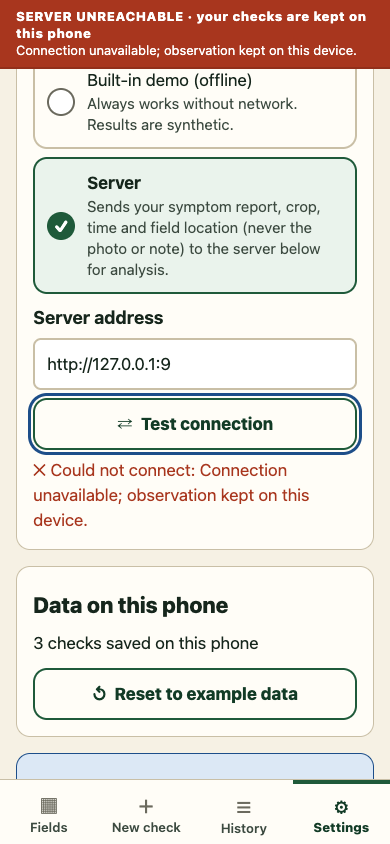
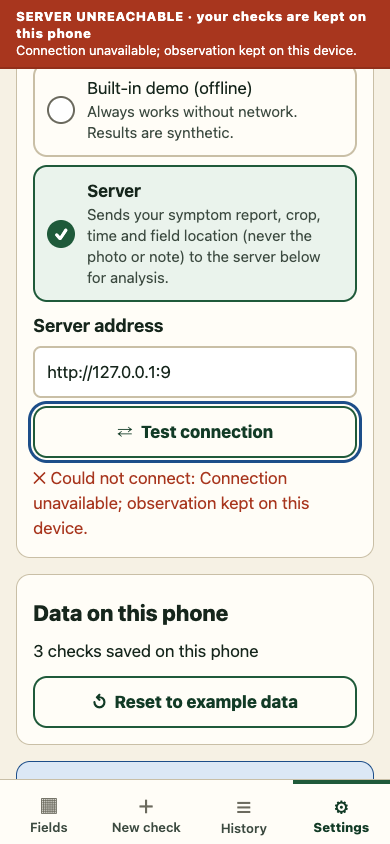
No automatic probe on server/address change; strict connected smoke
Connected journey evidence showed exactly one unintended request:
GET http://localhost:8000/v1/health (fetch, ERR_CONNECTION_REFUSED),
the auto-probe of the default address when Server was selected. Probe
only once at launch; address changes show 'Not checked yet' until Test.
Adapters are cached per address so the Test check verifies the instance
the store adopts. http-smoke fails on any failed request/HTTP>=400/
console error. 15 domain checks.

Changed region(s): [[0.0615, 0.0616, 0.9538, 0.6777], [0.0308, 0.7085, 0.9538, 0.9242], [0.0308, 0.6777, 0.0615, 0.7085]]

diff --git a/frontend/src/state/store.tsx b/frontend/src/state/store.tsx
@@ -27,6 +27,13 @@ interface Store {
 }
 
 const Ctx = createContext<Store | null>(null);
+// One adapter instance per address, so a Test-button check verifies the same instance the store uses.
+const httpApis = new Map<string, Api>();
+export function apiForUrl(url: string): Api {
+  let a = httpApis.get(url);
+  if (!a) { a = httpApi(url); httpApis.set(url, a); }
+  return a;
+}
 const EMPTY: PersistedState = { version: 1, fields: [], records: [], settings: { locale: 'en', source: 'mock', baseUrl: 'http://localhost:8000' } };
 
 export function StoreProvider({ children, storage = deviceStore }: { children: React.ReactNode; storage?: KeyValueStore }) {
@@ -41,7 +48,7 @@ export function StoreProvider({ children, storage = deviceStore }: { children: R
   const activeApi = useRef<Api>(mockApi);
   const writes = useRef(Promise.resolve());
 
-  const api = useMemo<Api>(() => state.settings.source === 'http' ? httpApi(state.settings.baseUrl) : mockApi, [state.settings.source, state.settings.baseUrl]);
+  const api = useMemo<Api>(() => state.settings.source === 'http' ? apiForUrl(state.settings.baseUrl) : mockApi, [state.settings.source, state.settings.baseUrl]);
   const t = useMemo(() => translator(state.settings.locale), [state.settings.locale]);
   activeApi.current = api;
 
@@ -81,13 +88,12 @@ export function StoreProvider({ children, storage = deviceStore }: { children: R
   }, [patchRecord]);
 
   /** Checks the active adapter (or an explicit address, for display only — never verified for retries). */
+  /** Probes the active adapter, or the adapter for an explicit address (the one the store will adopt). */
   const testConnection = useCallback(async (baseUrl?: string): Promise<Connection> => {
-    if (baseUrl && baseUrl !== api.baseUrl) {
-      try { const health = await httpApi(baseUrl).health(); return { kind: 'ok', health }; }
-      catch (e) { return { kind: 'unreachable', message: String((e as Error)?.message ?? e) }; }
-    }
-    if (api.kind === 'http') setConnection({ kind: 'checking' });
-    const result = await gate.current.check(api);
+    const target = baseUrl ? apiForUrl(baseUrl) : api;
+    if (target.kind === 'mock') { const c: Connection = { kind: 'local' }; setConnection(c); return c; }
+    setConnection({ kind: 'checking' });
+    const result = await gate.current.check(target);
     if (result) setConnection(result);
     return result ?? { kind: 'checking' };
   }, [api]);
@@ -98,7 +104,14 @@ export function StoreProvider({ children, storage = deviceStore }: { children: R
     for (const r of current.current.records) if (retryable(r) && !busy[r.id]) analyse(r, api);
   }, [analyse, api, busy]);
 
-  useEffect(() => { gate.current.invalidate(); if (ready) testConnection(); }, [ready, testConnection]);
+  // Probe the saved server once at launch. Later source/address changes are NOT probed
+  // automatically (no request to a half-typed or default address); the user taps Test.
+  const probedAtLaunch = useRef(false);
+  useEffect(() => {
+    if (!ready) return;
+    if (!probedAtLaunch.current) { probedAtLaunch.current = true; testConnection(); return; }
+    if (!gate.current.adopt(api)) setConnection(api.kind === 'mock' ? { kind: 'local' } : { kind: 'unverified' });
+  }, [ready, api]); // eslint-disable-line react-hooks/exhaustive-deps
   // Only a verified server connection triggers automatic retries; failed server checks are
   // never silently re-run through the demo adapter (a manual retry in demo mode is explicit).
   useEffect(() => { if (ready && connection.kind === 'ok') retryPending(); }, [ready, connection.kind, api]); // eslint-disable-line react-hooks/exhaustive-deps

diff --git a/frontend/tests/http-smoke.ts b/frontend/tests/http-smoke.ts
@@ -14,13 +14,17 @@ const OUT = path.resolve(__dirname, '../../docs/frontend/screenshots');
   const page = await browser.newPage({ viewport: { width: 390, height: 844 } });
   const posts: number[] = [];
   const bodies: string[] = [];
+  const failures: string[] = [];
+  page.on('requestfailed', r => failures.push(`FAILED ${r.resourceType()} ${r.method()} ${r.url()} ${r.failure()?.errorText}`));
+  page.on('response', r => { if (r.status() >= 400) failures.push(`HTTP ${r.status()} ${r.request().resourceType()} ${r.request().method()} ${r.url()}`); });
+  page.on('console', m => { if (m.type() === 'error') failures.push(`CONSOLE ${m.text()}`); });
   page.on('response', r => { if (r.url().startsWith(`${API}/v1/analyses`)) posts.push(r.status()); });
   page.on('request', r => { if (r.url().startsWith(`${API}/v1/analyses`) && r.method() === 'POST') bodies.push(r.postData() ?? ''); });
   await page.goto(APP); await page.evaluate(() => localStorage.clear()); await page.reload();
   await page.getByRole('tab', { name: 'Settings' }).click();
   await page.getByRole('radio', { name: /^Server/ }).click();
   await page.getByRole('textbox', { name: 'Server address' }).fill(API);
-  await page.getByRole('button', { name: 'Test connection' }).click();
+  await page.getByRole('button', { name: 'Test connection', exact: true }).click();
   await page.getByText(/Connected\. Contract 0\.1\.0/).waitFor({ timeout: 10000 });
   await page.getByRole('tab', { name: 'New check' }).click();
   await page.getByRole('radio', { name: /Hillside coffee/ }).click();
@@ -43,6 +47,8 @@ const OUT = path.resolve(__dirname, '../../docs/frontend/screenshots');
   }
   await page.getByText('Where to look next').first().evaluate(el => el.scrollIntoView({ block: 'start' }));
   await page.screenshot({ path: path.join(OUT, 'phone-12-http-map.png') });
+  // A connected journey must not produce any failed/unexpected request.
+  if (failures.length) throw new Error('unexpected failed requests in connected journey:\n' + failures.join('\n'));
   console.log('HTTP smoke passed: POST /v1/analyses', posts, '— agri-backend result with map/weather rendered; no note/photo in request');
   } finally { await browser.close(); }
 })().catch(e => { console.error(e); process.exitCode = 1; });

diff --git a/frontend/src/state/connection.ts b/frontend/src/state/connection.ts
@@ -5,12 +5,14 @@ import type { Api, Health } from '../api';
 export type Connection =
   | { kind: 'local' }
   | { kind: 'checking' }
+  | { kind: 'unverified' }   // server selected/changed but not probed yet (no automatic probe)
   | { kind: 'ok'; health: Health }
   | { kind: 'unreachable'; message: string };
 
 export class ConnectionGate {
   private generation = 0;
   private verified?: Api;
+  private target?: Api;
 
   /** Call whenever the active adapter changes; in-flight checks become stale. */
   invalidate(): void { this.generation++; this.verified = undefined; }
@@ -18,6 +20,7 @@ export class ConnectionGate {
   /** Resolves to the new connection, or null when superseded by a newer check/adapter. */
   async check(api: Api): Promise<Connection | null> {
     this.invalidate();
+    this.target = api;
     const mine = this.generation;
     if (api.kind === 'mock') return { kind: 'local' };
     try {
@@ -29,6 +32,16 @@ export class ConnectionGate {
       if (mine !== this.generation) return null;
       return { kind: 'unreachable', message: String((e as Error)?.message ?? e) };
     }
+  }
+
+  /**
+   * Called when the active adapter changes. Returns false (and invalidates) unless this exact
+   * adapter is the one being checked or already verified, so a Test-button check survives.
+   */
+  adopt(api: Api): boolean {
+    if (this.target === api) return true;
+    this.invalidate(); this.target = undefined;
+    return false;
   }
 
   /** True only for the exact HTTP adapter instance that passed the latest health check. */

diff --git a/frontend/tests/domain.ts b/frontend/tests/domain.ts
@@ -221,6 +221,21 @@ test('mock returns published examples; every example survives normalization unch
   for (const f of readdirSync(dir).filter(f => f.endsWith('.observation.json'))) assert(validObservation(JSON.parse(readFileSync(path.join(dir, f), 'utf8'))), f);
 });
 
+test('changing address does not probe; a Test-button check survives adoption', async () => {
+  const gate = new ConnectionGate();
+  const a = httpApi('http://a.invalid'); const b = httpApi('http://b.invalid');
+  let calls = 0;
+  await withFetch(async () => { calls++; return new Response(JSON.stringify({ status: 'ok', contract_version: '0.1.0', data_mode: 'cached' })); }, async () => {
+    assert.equal(gate.adopt(a), false, 'unprobed adapter is not adopted as verified');
+    assert.equal(calls, 0, 'adopting never sends a request');
+    const pending = gate.check(b);            // user taps Test for b …
+    assert.equal(gate.adopt(b), true);        // … settings update makes b active mid-check
+    assert.equal((await pending)?.kind, 'ok');
+    assert(gate.isVerified(b)); assert.equal(calls, 1);
+    assert.equal(gate.adopt(a), false); assert(!gate.isVerified(b));
+  });
+});
+
 (async () => {
   let failed = 0;
   for (const [name, fn] of tests) {

diff --git a/frontend/App.tsx b/frontend/App.tsx
@@ -88,6 +88,7 @@ function ModeBar({ onPress }: { onPress: () => void }) {
   let text: string; let detail: string; let bg = color.turmeric; let fg = color.ink;
   if (api.kind === 'mock') { text = t('mode.mock'); detail = t('mode.mock.detail'); }
   else if (connection.kind === 'unreachable') { text = t('mode.http.unreachable'); detail = connection.message; bg = color.clay; fg = '#fff'; }
+  else if (connection.kind === 'unverified') { text = t('mode.http', { url: state.settings.baseUrl }); detail = t('mode.http.unverified'); bg = color.skySoft; }
   else if (connection.kind === 'checking') { text = t('mode.http', { url: state.settings.baseUrl }); detail = t('mode.http.checking'); bg = color.skySoft; }
   else {
     text = t('mode.http', { url: state.settings.baseUrl });

diff --git a/frontend/tests/screenshots.ts b/frontend/tests/screenshots.ts
@@ -63,7 +63,7 @@ async function journey(page: Page, prefix: string) {
   await page.getByRole('tab', { name: 'Settings' }).click();
   await page.getByRole('radio', { name: /^Server/ }).click();
   await page.getByRole('textbox', { name: 'Server address' }).fill('http://127.0.0.1:9');
-  await page.getByRole('button', { name: 'Test connection' }).click();
+  await page.getByRole('button', { name: 'Test connection', exact: true }).click();
   await page.getByText(/Could not connect/).waitFor();
   await shot(page, `${prefix}-07-settings-unreachable`);
   await page.getByRole('tab', { name: 'New check' }).click();

diff --git a/frontend/src/i18n/fr.ts b/frontend/src/i18n/fr.ts
@@ -246,6 +246,7 @@ export const fr: Messages = {
   'result.fromReport': 'Fondé sur vos symptômes signalés, pas sur une photo.',
   'result.env.fetched': 'Données météo de modèle (pas une station), récupérées {age} h avant l’analyse{cached}.',
   'result.env.cached': ' · copie enregistrée',
+  'mode.http.unverified': 'Pas encore vérifié. Ouvrez les réglages et touchez « Tester la connexion ».',
   'common.loading': 'Chargement…',
   'common.close': 'Fermer',
   'common.yes': 'Oui',

diff --git a/frontend/src/i18n/en.ts b/frontend/src/i18n/en.ts
@@ -244,6 +244,7 @@ export const en = {
   'result.fromReport': 'Based on your symptom report, not on a photo.',
   'result.env.fetched': 'Model weather data (not a weather station), fetched {age} h before analysis{cached}.',
   'result.env.cached': ' · saved copy',
+  'mode.http.unverified': 'Not checked yet. Open Settings and tap Test connection.',
   'common.loading': 'Loading…',
   'common.close': 'Close',
   'common.yes': 'Yes',

diff --git a/docs/frontend/README.md b/docs/frontend/README.md
@@ -16,7 +16,7 @@ Result renders, when present: abstention, pathogen, differentials ("Could also b
 
 Labels: the top banner describes the **service** (health `capabilities`: no image model, uncalibrated); each **result** is labelled from its own `data_mode`/adapter: demo/mock → "DEMO RESULT"; server → "SERVER ESTIMATE · rule-based · not a diagnosis" + "Based on your symptom report, not on a photo". The offline mock returns published backend examples verbatim (rust example, or the abstaining example when no recognised signal) and says it does not use the report.
 
-Layout: phones stack everything; ≥ 900 px uses a side rail; ≥ 1180 px the result splits into understand/act (left) and map/weather/follow-up (right). Switching to Server mode immediately probes the saved address, so a browser console shows one `ERR_CONNECTION_REFUSED` when no server runs — expected, surfaced in the banner.
+Layout: phones stack everything; ≥ 900 px uses a side rail; ≥ 1180 px the result splits into understand/act (left) and map/weather/follow-up (right). Network requests are deliberate: the saved server is probed once at launch; choosing Server or editing the address does **not** probe (banner: "Not checked yet") until Test connection. The connected HTTP smoke fails on any failed request, HTTP ≥ 400 or console error (zero observed). The offline journey intentionally targets `http://127.0.0.1:9` (unreachable) and tolerates only those failures.
 
 ## Structure and conventions
 
